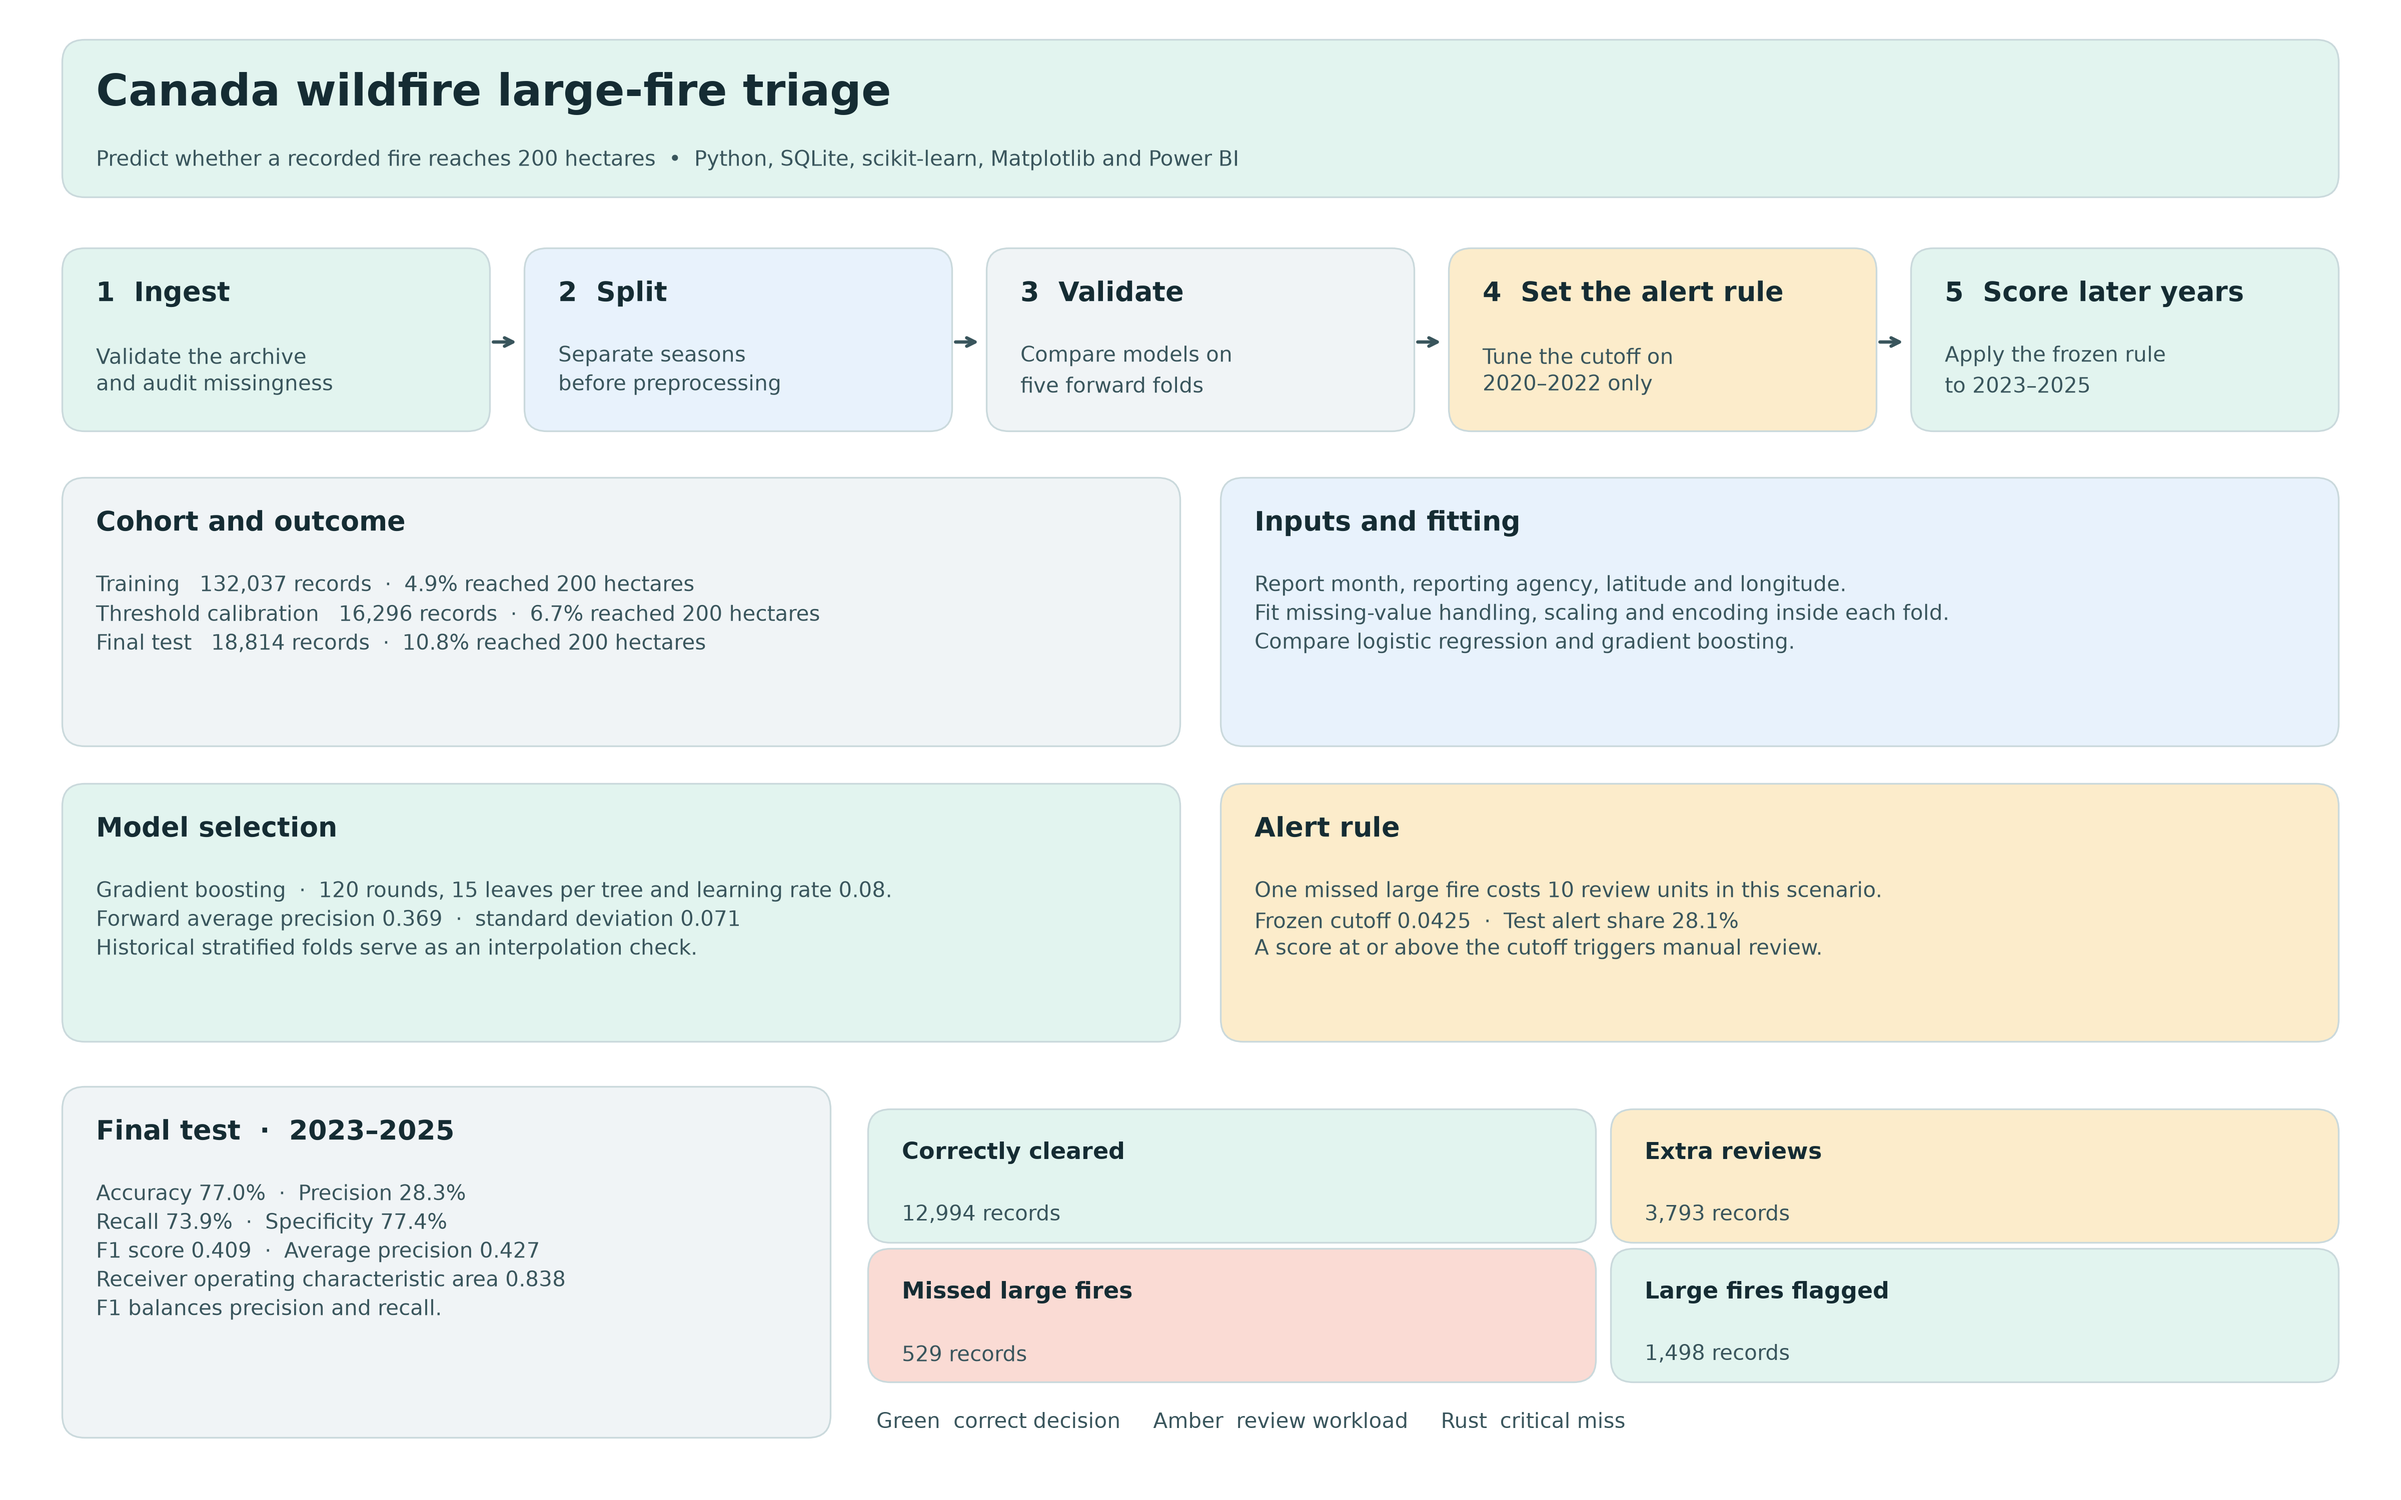
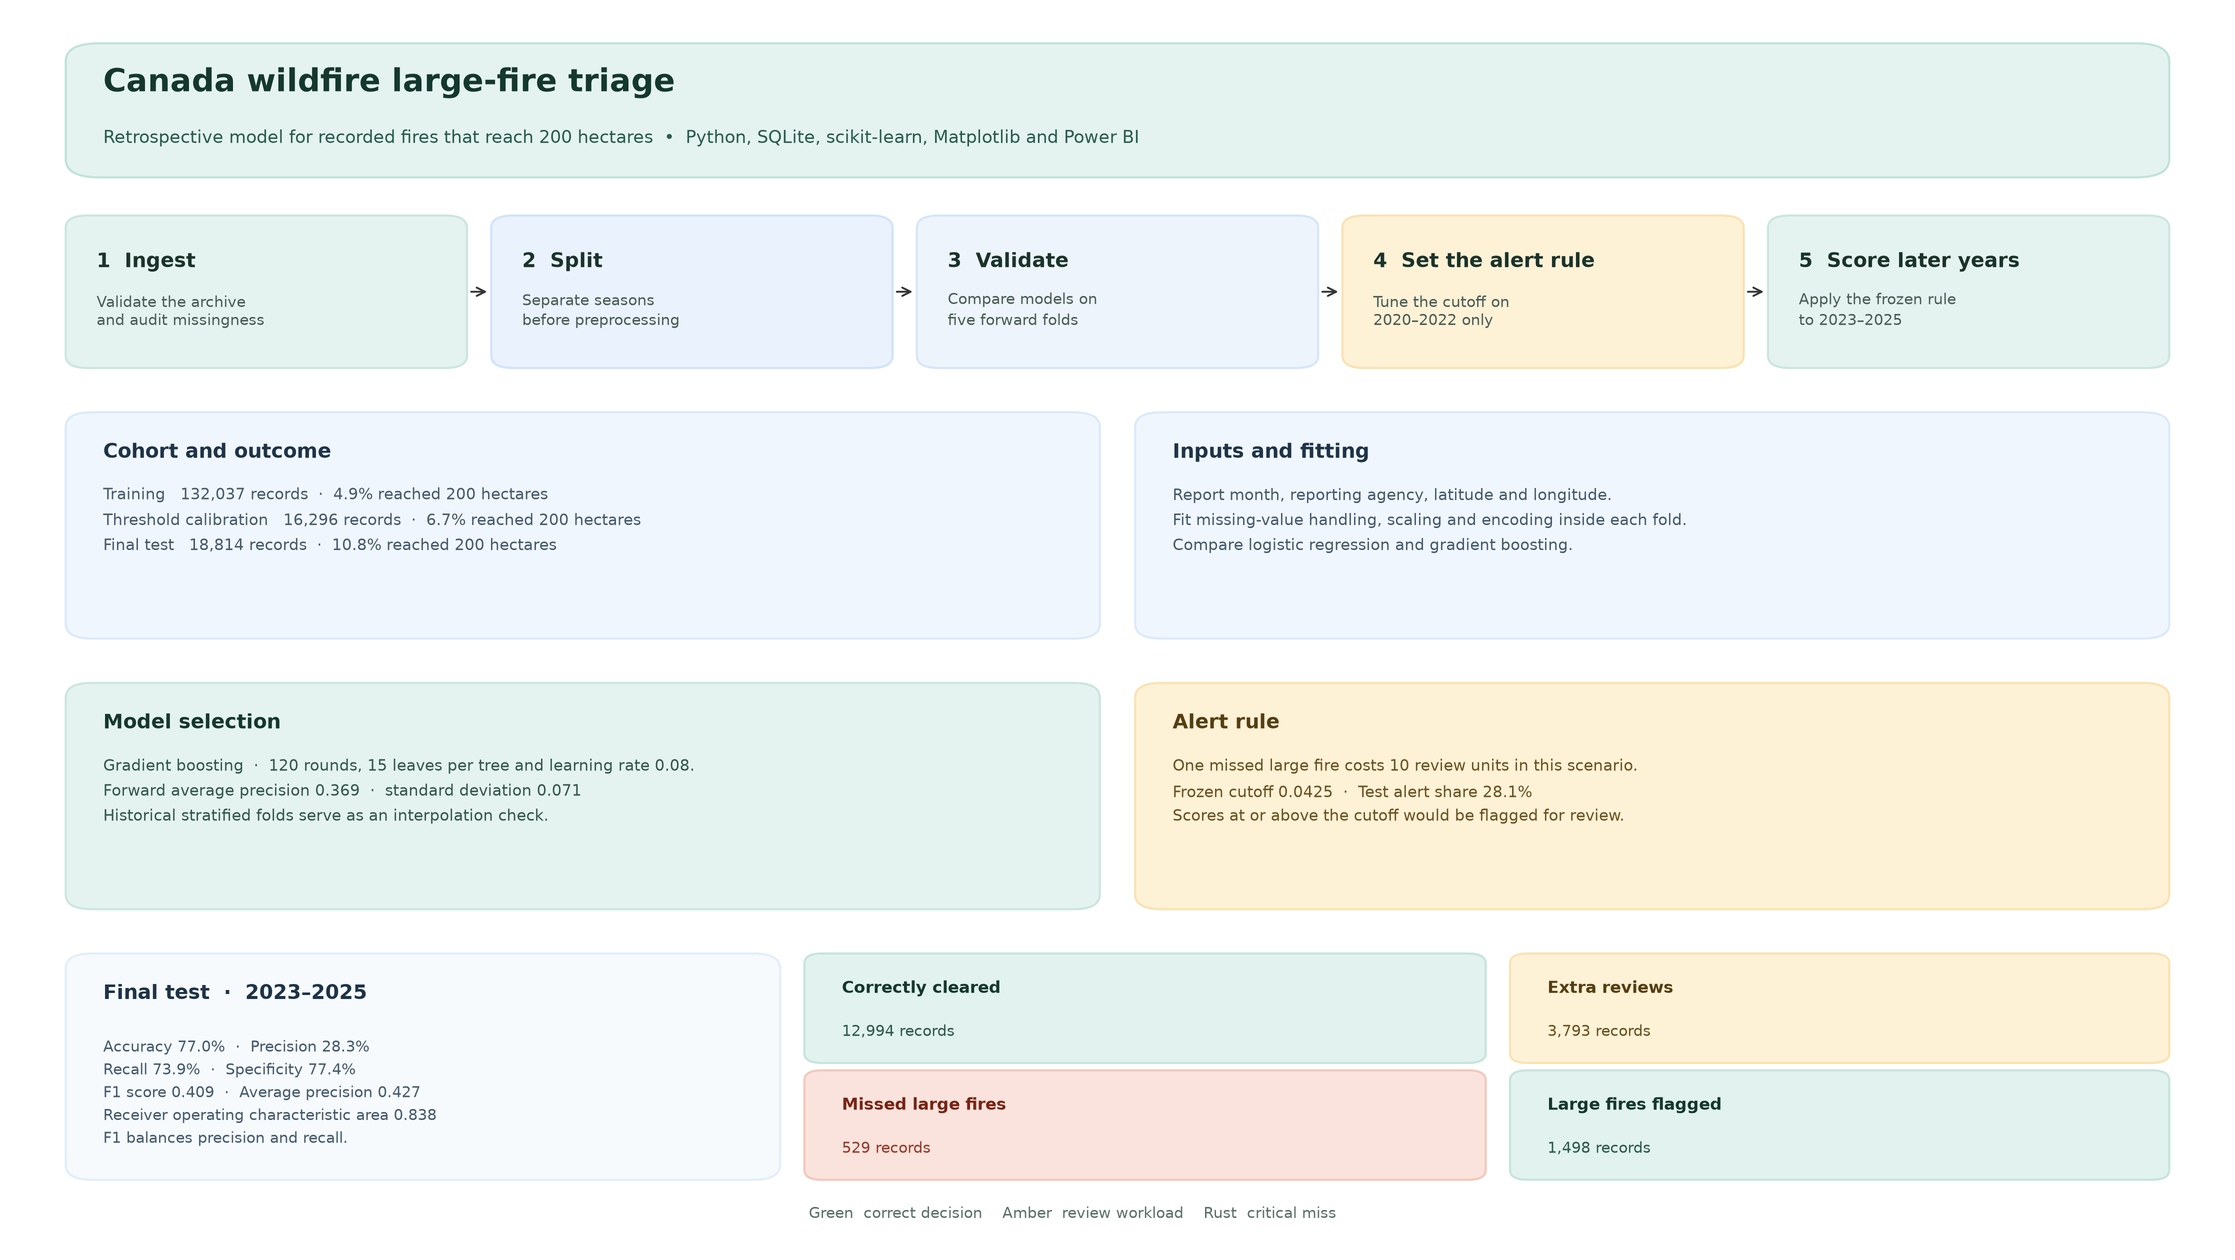
Show updated triage workflow diagram on the portfolio

diff --git a/wildfire-triage/index.html b/wildfire-triage/index.html
@@ -45,7 +45,7 @@
   </ul>
   <p>I treated one missed large fire as ten extra reviews when selecting the cutoff. That cost ratio is a planning assumption. The study supports historical review planning. Live use would require confirming which inputs were available at the first report and testing on new seasons.</p>
   <figure>
-    <a href="pipeline_workflow.png"><img src="pipeline_workflow.png" width="4800" height="3000" alt="Five-stage workflow from ingestion to held-out evaluation. The final scorecard shows 73.9 percent recall, 529 missed large fires, and 3,793 extra reviews."></a>
+    <a href="pipeline_workflow.png"><img src="pipeline_workflow.png" width="4470" height="2520" alt="Five-stage workflow from ingestion to held-out evaluation. The final scorecard shows 73.9 percent recall, 529 missed large fires, and 3,793 extra reviews."></a>
     <figcaption>Workflow and final test scorecard. Select the image to open it full size.</figcaption>
   </figure>
   <h2>Explore the results</h2>
